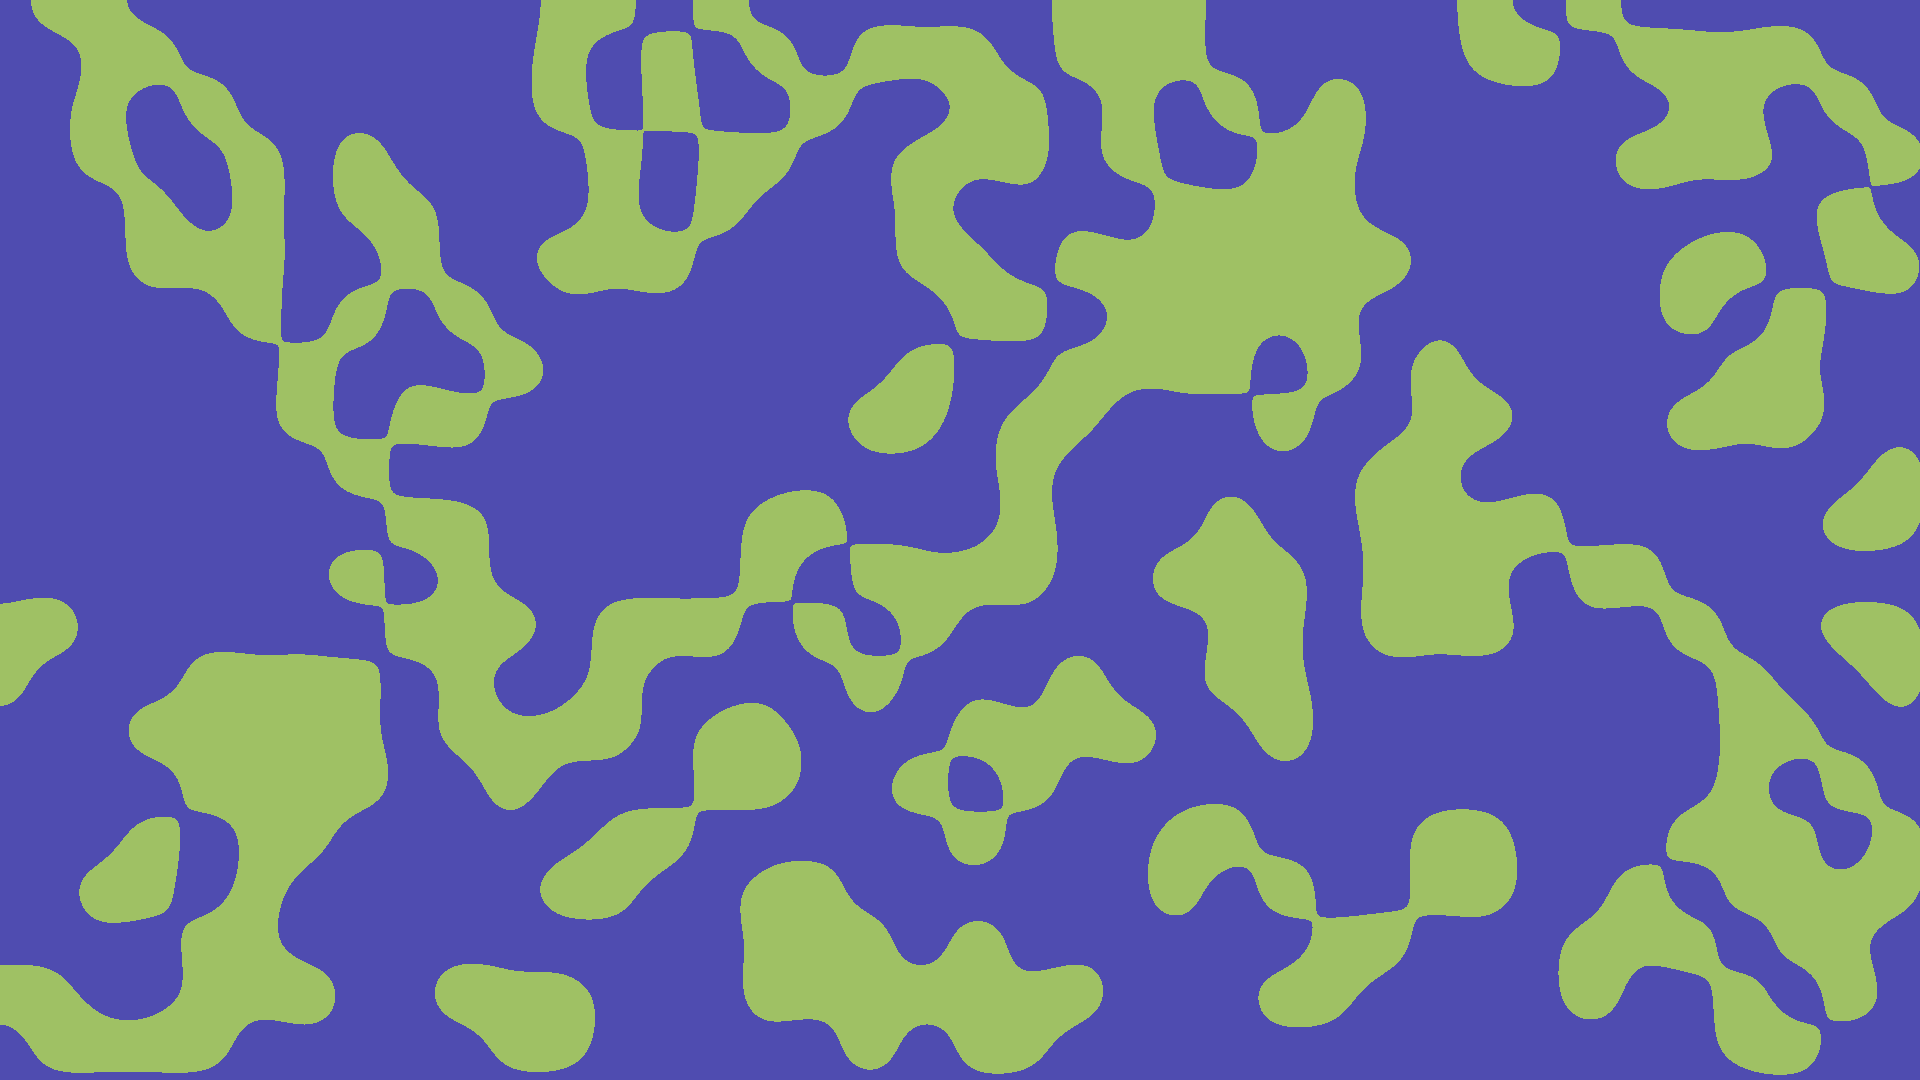
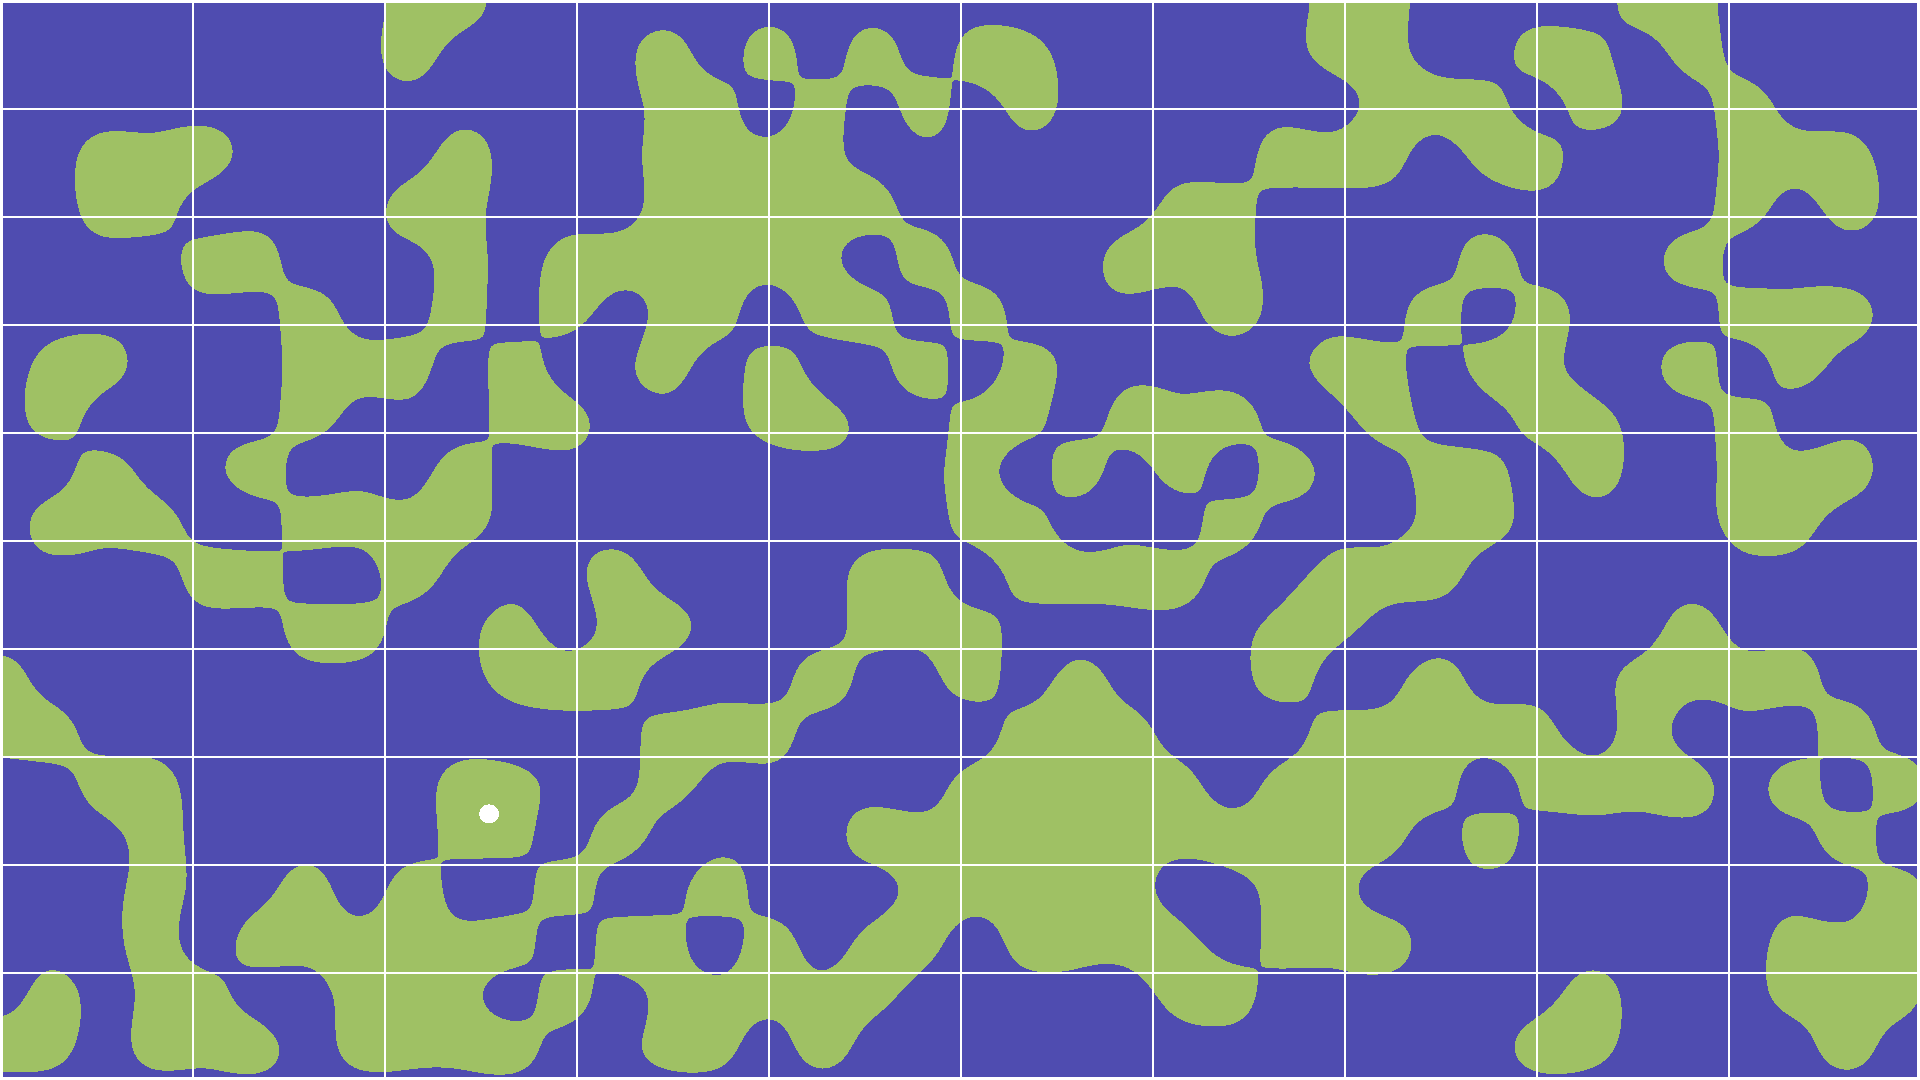
Updated ReadMe

diff --git a/Millow.py b/Millow.py
@@ -394,8 +394,7 @@ class Millow:
 
 if __name__ == "__main__":
 
-    map = Millow("sparse islands", mapSize=(700, 700))
+    map = Millow('sparse islands',mapSize=(1080,1920))
     map.generateBasic()
-    map.addHeight()
-    map.addGrid((20, 20))
+    map.addGrid(gridDensity=(10,10))
     map.display()

diff --git a/README.md b/README.md
@@ -2,16 +2,20 @@
 A Python procedural map generator. 
 
 # Features
-The program accepts a specified map type (Continents, Dense Islands, etc) and generates a basic 1080x1920 pillow Image object
+The program accepts a specified map type (Continents, Dense Islands, etc) and generates a map.
 
 # How-To
 ```python
 import Millow.Millow as Millow
 
-map = Millow('map type') #Creates a Millow object with a given map type.
-img = map.toImage() #Produces a pillow image object.
-img.show() #Shows the generated map, one can use any pillow image methods on img. 
+map = Millow('map type', mapSize=(4000,4000)) #Creates a Millow object with a given map type, and its 4000x4000 pixels.
+map.generateBasic() #This creates a very basic green and blue map.
+map.addHeight() #Adds height gradients to the map, indicates things like hills, etc.
+map.addGrid((30,30)) #Adds a 30x30 grid over the top of the image. 
+map.display() #Displays the map.
+myPillowImage = map.img #The Pil(low) image object.
 ```
+
 
 Currently there are the following map types:
 - 'continents'
@@ -28,27 +32,22 @@ Currently there are the following map types:
 
 ## Input.
 ```python
-map = Millow('continents')
-map.toImage().show()
+map = Millow('continents',mapSize=(1000,1000))
+map.generateBasic()
+map.addHeights()
 
-map = Millow('dense islands')
-map.toImage().show()
-
-map = Millow('sparse islands')
-map.toImage().show()
+map = Millow('sparse islands',mapSize=(1080,1920))
+map.generateBasic()
+map.addGrid(gridDensity=(10,10))
 ```
 ## Output.
 
 ### Continents.
 ![continents](https://github.com/Jackbytes/Millow-Map/blob/main/img/continents.png "Continents")
 
-### Dense Islands.
-![Dense Islands](https://github.com/Jackbytes/Millow-Map/blob/main/img/denseislands.png "Dense Islands")
-
 ### Sparse Islands.
-![Sparse Islands](https://github.com/Jackbytes/Millow-Map/blob/main/img/sparseislands.png "Sparse Islands")
+![Dense Islands](https://github.com/Jackbytes/Millow-Map/blob/main/img/sparseislands.png "Sparse Islands")
 
-# To-Do.
+# To Do.
 
 - [ ] Add water shading.
-- [ ] Add option for discrete gradients.
